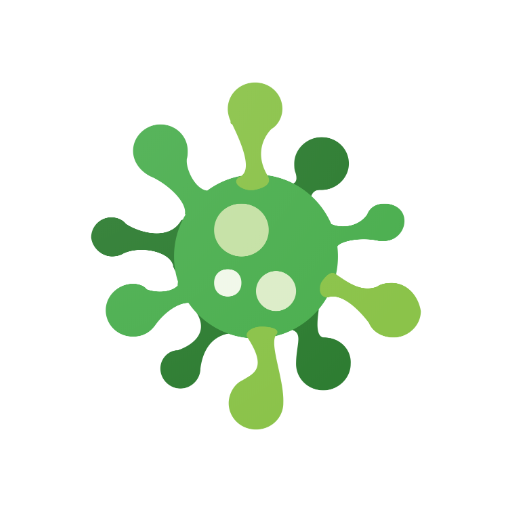
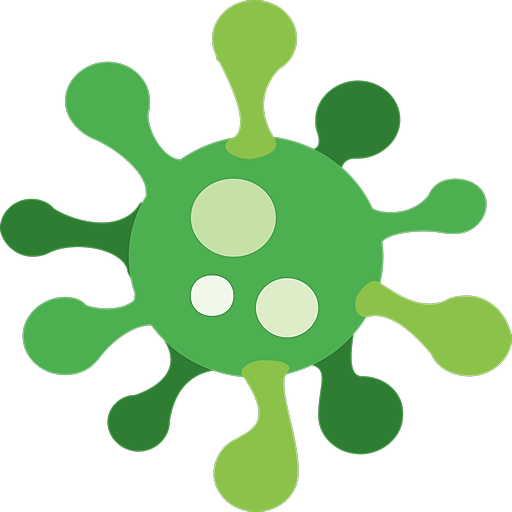
translate hastag and change splash screen

diff --git a/src/screens/Splash.js b/src/screens/Splash.js
@@ -1,5 +1,6 @@
 import React from "react";
 import { Text, StyleSheet, View, Image } from "react-native";
+import { t } from "i18n";
 
 import * as theme from "theme";
 
@@ -24,10 +25,10 @@ class Splash extends React.Component {
     return (
       <View style={styles.container}>
         <View style={styles.conSplash}>
-          <Image source={require("assets/images/bacteria.png")} style={styles.icnErr} />
+          <Image source={require("assets/images/icon_512.png")} style={styles.icnErr} />
           <Text style={styles.title}>COVY</Text>
-          <Text style={styles.subTitle}>Made with ♥ Mediusoft</Text>
-          <Text style={styles.subTitle}>#evdəqal</Text>
+          <Text style={styles.subTitle}>{`<> with ♥ by Mediusoft`}</Text>
+          <Text style={styles.subTitle}>{t("stayAtHome")}</Text>
         </View>
       </View>
     );
@@ -63,7 +64,7 @@ const styles = StyleSheet.create({
     textAlign: "center"
   },
   subTitle: {
-    fontSize: theme.size.kecil,
+    fontSize: theme.size.small,
     color: theme.colors.white,
     fontFamily: "poppins",
     opacity: 0.87,

diff --git a/src/screens/Detail.js b/src/screens/Detail.js
@@ -170,7 +170,7 @@ const styles = StyleSheet.create({
     textAlign: "center"
   },
   errorSubTitle: {
-    fontSize: theme.size.kecil,
+    fontSize: theme.size.small,
     color: theme.colors.white,
     fontFamily: "poppins",
     opacity: 0.87,
@@ -183,7 +183,7 @@ const styles = StyleSheet.create({
     height: 150
   },
   subtitle: {
-    fontSize: theme.size.kecil,
+    fontSize: theme.size.small,
     color: theme.colors.white,
     fontFamily: "poppins",
     opacity: 0.67,

diff --git a/src/boot/Setup.js b/src/boot/Setup.js
@@ -10,6 +10,8 @@ import { getCurrrentCountryName } from "services/apiServices";
 import * as Location from "expo-location";
 import * as Permissions from "expo-permissions";
 
+console.disableYellowBox = true;
+
 enableScreens();
 
 if (UIManager.setLayoutAnimationEnabledExperimental) {

diff --git a/src/screens/Home/home.style.js b/src/screens/Home/home.style.js
@@ -85,7 +85,7 @@ export const styles = StyleSheet.create({
   },
   labelDesc: {
     color: theme.colors.white,
-    fontSize: theme.size.kecil,
+    fontSize: theme.size.small,
     textAlign: "center",
     fontFamily: "poppins",
     marginTop: -5

diff --git a/src/theme.js b/src/theme.js
@@ -25,9 +25,9 @@ const sizes = {
 
 const size = {
   large: 24,
-  sedang: 16,
   medium: 18,
-  kecil: 14
+  sedang: 16,
+  small: 14
 };
 
 export { colors, sizes, size, padding };
